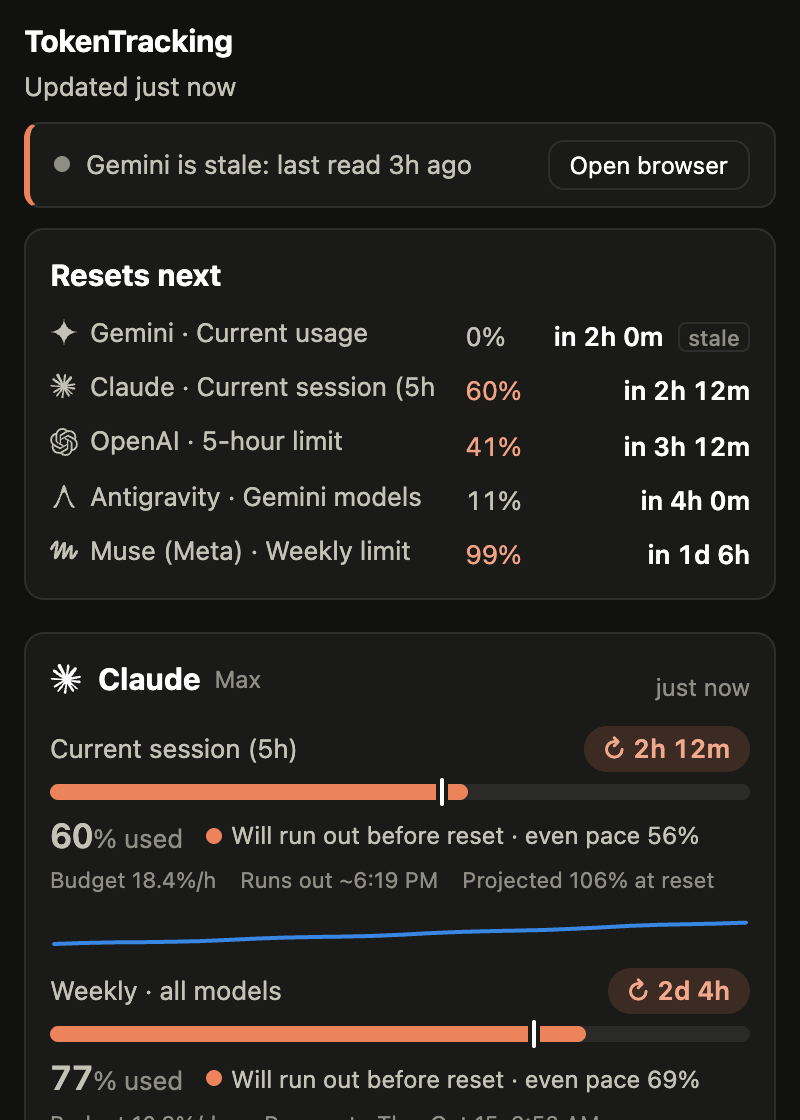
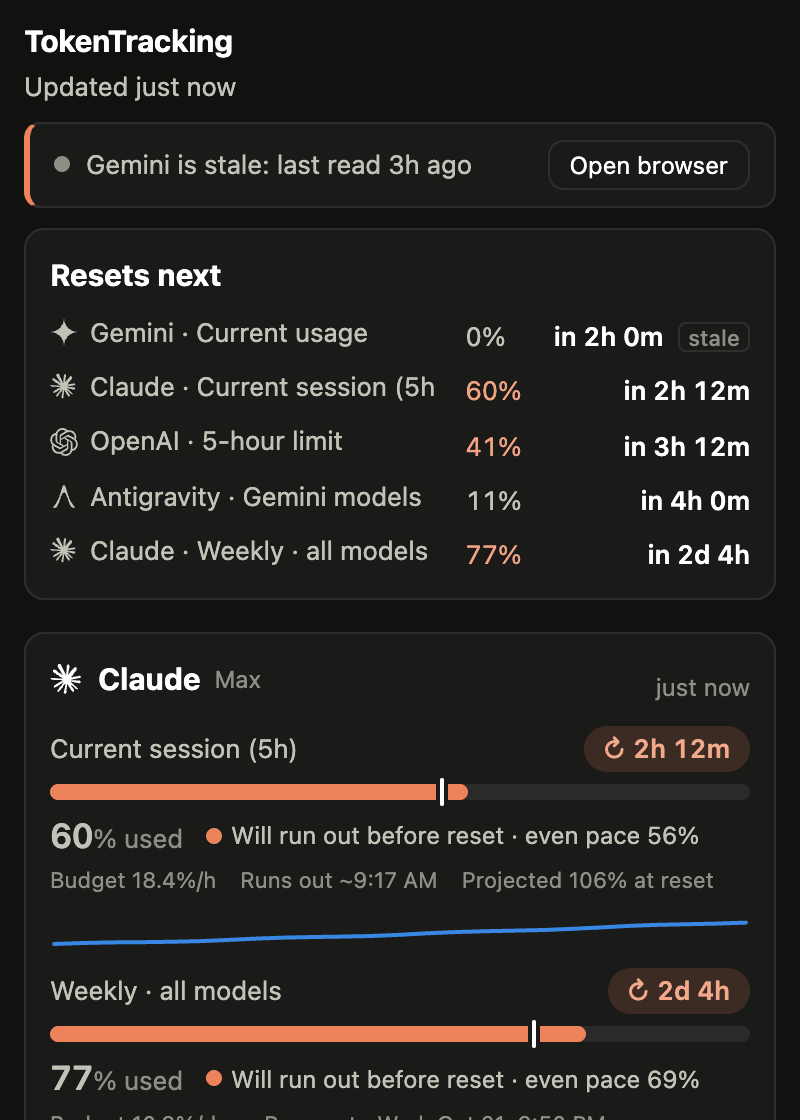
Release 0.6.0-preview.2 with refreshed website and demo screenshots

diff --git a/website/src/App.tsx b/website/src/App.tsx
@@ -54,30 +54,30 @@ export default function App() {
           <p className="hero-description">All your subscription limits, together in your menu bar. Know what’s left, how fast you’re using it, and when it resets.</p>
           <div className="hero-actions"><DownloadButtons /><SupportLink className="hero-support" label="Donate" /></div>
           <p className="download-caption">Free & open source <span>·</span> macOS {release.minimumMacOS}+ <span>·</span> Chrome required</p>
-          <a className="preview-link" href="#install">Preview release · read the installation notes <span aria-hidden="true">↗</span></a>
+          <a className="preview-link" href="#install">Preview {release.version} · installation notes <span aria-hidden="true">↗</span></a>
           <a className="hero-release-link" href={releaseURL} target="_blank" rel="noopener noreferrer">Release notes & checksums ↗</a>
         </div>
         <div className="hero-product" aria-label="TokenTracking product screenshots with demo data">
           <div className="desktop-orb orb-one" /><div className="desktop-orb orb-two" />
           <div className="menu-strip"><span className="menu-apple" aria-hidden="true">●</span><span className="menu-app">TokenTracking</span><div className="menu-crop"><img src="/images/menubar.png" alt="Menu bar with provider icons and percentage usage" /></div></div>
-          <div className="hero-panel"><img src="/images/panel-dark.png" width="800" height="1184" alt="Native Mac panel with upcoming resets and usage meters" /></div>
+          <div className="hero-panel"><img src="/images/panel-dark.png" width="800" height="1122" alt="Native Mac panel with upcoming resets and usage meters" /></div>
           <div className="floating-note"><span className="note-icon" aria-hidden="true">↻</span><div><strong>Less guessing. Better pacing.</strong><span>A glance is all it takes.</span></div></div>
-          <span className="image-caption">Current source build · demo data</span>
+          <span className="image-caption">Preview build · demo data</span>
         </div>
       </section>
 
       <section className="provider-section page-width" aria-label="Supported services">
         <p>Your subscriptions. One place.</p>
         <div className="providers">{providers.map(([id, name]) => <div className="provider" key={id}><img src={`/providers/${id}.svg`} width="24" height="24" alt="" /><span>{name}</span></div>)}</div>
-        <p className="provider-footnote">Grok Bot is tracked through Cursor. Antigravity is tracked while its desktop app is running.</p>
+        <p className="provider-footnote">Grok Bot is tracked through Cursor. Antigravity is tracked while its desktop app is running. <a href={`${release.repository}/blob/main/docs/PROVIDERS.md`} target="_blank" rel="noopener noreferrer">Provider status ↗</a></p>
       </section>
 
       <section id="features" className="features-section page-width">
         <div className="section-intro"><div><p className="eyebrow">A little more headroom</p><h2>Know where you stand.<br />Before you hit a wall.</h2></div><p>Five-hour sessions. Weekly limits. Monthly pools. See the whole picture without opening every usage page.</p></div>
         <div className="feature-grid">
-          <article className="feature-card"><span className="feature-number">01 / AT A GLANCE</span><h3>A home in your menu bar.</h3><p>An icon and a number for each service. Click once for every limit and its next reset.</p><div className="meter-demo" aria-label="Illustrative weekly limit: 72 percent used"><div><span>Weekly limit</span><strong>72<span>%</span></strong></div><div className="meter-track"><span /><i title="Even pace marker" /></div><p><span className="tiny-dot" /> Ahead of pace <span>↻ 2d 4h</span></p></div></article>
+          <article className="feature-card"><span className="feature-number">01 / AT A GLANCE</span><h3>A home in your menu bar.</h3><p>Your chosen services at a glance. Open the panel for usage, pacing, and upcoming resets.</p><div className="meter-demo" aria-label="Illustrative weekly limit: 72 percent used"><div><span>Weekly limit</span><strong>72<span>%</span></strong></div><div className="meter-track"><span /><i title="Even pace marker" /></div><p><span className="tiny-dot" /> Ahead of pace <span>↻ 2d 4h</span></p></div></article>
           <article className="feature-card"><span className="feature-number">02 / AHEAD OF THE RESET</span><h3>Make what’s left last.</h3><p>Even-pace markers, burn rate, and reset countdowns help you decide when to switch tools or slow down.</p><div className="reset-demo"><span>Resets next</span><div><img src="/providers/openai.svg" alt="" /><strong>ChatGPT</strong><span>in 3h 12m</span></div><div><img src="/providers/claude.svg" alt="" /><strong>Claude</strong><span>in 2d 4h</span></div><small>Illustrative values</small></div></article>
-          <article className="feature-card"><span className="feature-number">03 / QUIET BY DESIGN</span><h3>Fresh data. No fuss.</h3><p>Refreshes run invisibly in the background, every 15 minutes by default. Stale data and expired logins are clearly marked.</p><div className="quiet-demo"><div className="refresh-ring" aria-hidden="true">↻</div><span>Refresh. Read. Close.</span><small>No browser windows during refresh.</small></div></article>
+          <article className="feature-card"><span className="feature-number">03 / QUIET BY DESIGN</span><h3>Up to date, quietly.</h3><p>Refreshes run invisibly in the background, every 15 minutes by default. Stale data and expired logins are clearly marked.</p><div className="quiet-demo"><div className="refresh-ring" aria-hidden="true">↻</div><span>Refresh. Read. Close.</span><small>No browser windows during refresh.</small></div></article>
         </div>
       </section>
 
@@ -89,15 +89,15 @@ export default function App() {
       </section>
 
       <section className="settings-section page-width">
-        <div className="settings-copy"><p className="eyebrow">Your bar. Your priorities.</p><h2>Keep the numbers<br />that matter to you.</h2><p>Show the services you use. Drag them into your preferred order. Pick a specific limit, or let each service show its highest usage.</p><ul className="check-list"><li>Show or hide any service, including Gemini</li><li>Drag whole rows with live reordering</li><li>Choose session, weekly, or other available meters</li><li>Preferences save automatically on your Mac</li></ul><span className="source-badge">Settings shown from the current source build</span><p className="source-note">These controls will ship in the next packaged preview. The download above is {release.version}.</p></div>
-        <div className="settings-frame"><img src="/images/settings-dark.png" width="800" height="1184" alt="Settings with service checkboxes, reorder arrows and a Show selector for each meter" loading="lazy" /></div>
+        <div className="settings-copy"><p className="eyebrow">Your bar. Your priorities.</p><h2>Keep the numbers<br />that matter to you.</h2><p>Select and reorder your menu bar items. Keep the limits you care about in view, with your preferences saved on your Mac.</p><span className="source-badge">Included in {release.version}</span></div>
+        <div className="settings-frame"><img src="/images/settings-dark.png" width="800" height="1122" alt="Menu bar settings with service selection and usage limit choices" loading="lazy" /></div>
       </section>
 
       <section className="privacy-section page-width"><div className="privacy-mark" aria-hidden="true"><svg width="36" height="36" viewBox="0 0 24 24" fill="none" stroke="currentColor" strokeWidth="1.4"><rect x="5" y="10" width="14" height="11" rx="3" /><path d="M8 10V7a4 4 0 0 1 8 0v3m-4 4v3" /></svg></div><p className="eyebrow">Local-first, from the start</p><h2>Your usage stays yours.</h2><p>History is stored on your Mac. Logins stay inside a dedicated Chrome profile. TokenTracking reads your own provider pages, with no API keys and no telemetry.</p><div className="privacy-points"><span>Local history</span><span>No app account</span><span>No analytics</span><span>Open source</span></div><a href={`${release.repository}/blob/main/docs/SECURITY.md`} target="_blank" rel="noopener noreferrer">Read how it works <Arrow /></a></section>
 
       <section id="install" className="install-section page-width"><div className="section-intro"><div><p className="eyebrow">A few minutes to set up</p><h2>From download to a glance.</h2></div><p>macOS {release.minimumMacOS} or later, plus Google Chrome. Node and the local service are included in the app.</p></div><ol className="install-steps"><li><span>1</span><h3>Drop it into Applications.</h3><p>Download the DMG for your Mac, open it, and drag TokenTracking to Applications.</p></li><li><span>2</span><h3>Connect your subscriptions.</h3><p>Choose Open browser for each service, sign in, then quit that dedicated Chrome window with ⌘Q.</p></li><li><span>3</span><h3>Make room in your menu bar.</h3><p>If needed, enable TokenTracking in System Settings → Menu Bar. Your limits refresh automatically.</p></li></ol><aside className="preview-notice"><span aria-hidden="true">ⓘ</span><div><strong>A note about the preview</strong><p>The current download is ad-hoc signed and isn’t notarized by Apple. If macOS blocks the first launch, attempt to open the app, then use System Settings → Privacy & Security → Open Anyway if you trust this build. Keep Gatekeeper enabled.</p><a href={`${release.repository}/blob/main/docs/RELEASING.md`} target="_blank" rel="noopener noreferrer">Release and installation details ↗</a></div></aside></section>
 
-      <section className="faq-section page-width"><h2>A few things to know.</h2><div className="faqs"><details><summary>Does this need API keys?</summary><p>No. Browser providers are read from their own pages using a separate Chrome profile you sign into once. Antigravity is read from its local language server while the app is running.</p></details><details><summary>Does it track API spending or token counts?</summary><p>It tracks subscription usage limits and pacing. API billing, cost-per-token estimates, and subscription value comparisons are not included.</p></details><details><summary>What if a provider changes its usage page?</summary><p>These readers use undocumented pages and endpoints. They can change, and a meter may temporarily stop updating. The app shows stale readings and refresh errors instead of hiding them. OpenAI’s duplicate “Usage remaining” row is still being checked.</p></details><details><summary>What happens when I update or uninstall?</summary><p>Quit the app before replacing it in Applications. Updates keep your history and logins in ~/.tokentracking. To uninstall, quit and remove the app; delete that folder separately if you also want to erase its local data.</p></details></div></section>
+      <section className="faq-section page-width"><h2>A few things to know.</h2><div className="faqs"><details><summary>Does this need API keys?</summary><p>No. Browser providers are read from their own pages using a separate Chrome profile you sign into once. Antigravity is read from its local language server while the app is running.</p></details><details><summary>Does it track API spending or token counts?</summary><p>It tracks subscription usage limits and pacing. API billing, cost-per-token estimates, and subscription value comparisons are not included.</p></details><details><summary>What if a provider changes its usage page?</summary><p>These readers use undocumented pages and endpoints. They can change, and a meter may temporarily stop updating. The app shows stale readings and refresh errors instead of hiding them. See the provider documentation for the latest verification status.</p></details><details><summary>What happens when I update or uninstall?</summary><p>Quit the app before replacing it in Applications. Updates keep your history and logins in ~/.tokentracking. To uninstall, quit and remove the app; delete that folder separately if you also want to erase its local data.</p></details></div></section>
 
       <section id="support" className="support-section page-width" aria-labelledby="support-title">
         <div className="support-section-copy"><p className="eyebrow">Free, open source, independently built</p><h2 id="support-title">Help keep it going.</h2><p>If TokenTracking gives you a little more clarity, consider leaving a tip to support the project.</p></div>

diff --git a/lib/scrape-dom.js b/lib/scrape-dom.js
@@ -9,6 +9,7 @@ const PCT_ALL = /(\d{1,3}(?:\.\d+)?)\s*%/g;
 const PCT_LEAF = /^\s*\d{1,3}(?:\.\d+)?\s*%(\s*(used|left|remaining))?\s*$/i;
 const RESET_RE = /reset|renew|refresh|available again/i;
 const ICON_RE = /^[a-z_]+$/; // Material icon ligatures like "info", "chevron_right"
+const GENERIC_LABEL_RE = /^(?:usage(?:\s+(?:remaining|limit))?|progress(?:\s*bar)?|meter)$/i;
 
 const visible = (el) => { const r = el.getBoundingClientRect(); return r.width > 0 && r.height > 0; };
 const lines = (el) => (el.innerText || '').split('\n').map((s) => s.trim()).filter(Boolean);
@@ -59,13 +60,18 @@ function scrape() {
     return /left|remaining/i.test(pctLine) ? 100 - v : v;
   };
 
-  // 1. ARIA progress bars that carry a value (labelled bars, e.g. Muse settings).
+  // 1. ARIA progress bars that carry a value (labelled bars, e.g. Muse settings, ChatGPT limits).
   for (const pb of document.querySelectorAll('[role="progressbar"][aria-valuenow], progress')) {
     if (!visible(pb)) continue;
     const ls = lines(boxAround(pb));
     const idx = ls.findIndex((l) => PCT_RE.test(l));
-    const label = pb.getAttribute('aria-label') || labelFrom(ls, idx >= 0 ? idx : ls.length);
-    add(label, fromText(ls[idx], barPercent(pb)), ls.find((l) => RESET_RE.test(l)), ls[idx]);
+    const aria = (pb.getAttribute('aria-label') || '').trim();
+    const ariaValid = aria && !GENERIC_LABEL_RE.test(aria) && isLabel(aria);
+    const fromDom = labelFrom(ls, idx >= 0 ? idx : ls.length);
+    const label = fromDom !== 'Usage' ? fromDom : (ariaValid ? aria : fromDom);
+    let pct = fromText(ls[idx], barPercent(pb));
+    if (pct != null && idx < 0 && /remaining|left/i.test(aria)) pct = 100 - pct;
+    add(label, pct, ls.find((l) => RESET_RE.test(l)), ls[idx]);
   }
 
   // 2. Text-only meters: a leaf element reading "NN% used" (e.g. Gemini /usage).
@@ -74,7 +80,11 @@ function scrape() {
     if (leaf.closest('nav,[role=navigation]')) continue;
     const ls = lines(boxAround(leaf));
     const idx = ls.findIndex((l) => PCT_RE.test(l));
-    add(labelFrom(ls, idx), fromText(ls[idx]), ls.find((l) => RESET_RE.test(l)), ls[idx]);
+    if (idx < 0) continue;
+    const resetLine = ls.find((l) => RESET_RE.test(l));
+    // A bare percentage without a reset time or "used/left/remaining" is not a quota meter (e.g. breakdown charts).
+    if (!/used|left|remaining/i.test(ls[idx]) && !resetLine) continue;
+    add(labelFrom(ls, idx), fromText(ls[idx]), resetLine, ls[idx]);
   }
   return meters.slice(0, 20);
 }

diff --git a/test/db.test.js b/test/db.test.js
@@ -20,17 +20,25 @@ test('schema migrations fold old Antigravity meter ids into the fixed groups', (
     add.run('pool-gemini', 'Gemini models', 0, '2026-10-16T17:33:02Z', '2026-10-15T17:33:02Z', '2026-10-15T17:33:02Z');
     add.run('pool-gemini', 'Gemini models', 80, '2026-10-23T12:35:35Z', '2026-10-16T14:00:00Z', '2026-10-16T14:00:00Z'); // v3-era misattributed Argon row
     add.run('pool-gpt-oss', 'GPT-OSS models', 0, null, '2026-10-15T17:48:27Z', '2026-10-15T17:48:27Z'); // a v2-era row
+    const addOpenAI = raw.prepare(`INSERT INTO snapshots (provider, meter_id, label, window, used_percent, resets_at, captured_at, received_at)
+      VALUES ('openai', ?, ?, ?, ?, ?, ?, ?)`);
+    addOpenAI.run('weekly', 'Weekly', 'weekly', 100, null, '2026-10-17T10:00:00Z', '2026-10-17T10:00:00Z');
+    addOpenAI.run('usage-remaining', 'Usage remaining', 'session', 0, '2026-10-17T15:00:00Z', '2026-10-17T10:00:00Z', '2026-10-17T10:00:00Z');
+    addOpenAI.run('weekly-limit', 'Weekly limit', 'weekly', 83, '2026-10-22T08:00:00Z', '2026-10-17T10:00:00Z', '2026-10-17T10:00:00Z');
+    addOpenAI.run('5-hour-limit', '5-hour limit', 'session', 0, '2026-10-17T15:00:00Z', '2026-10-17T10:00:00Z', '2026-10-17T10:00:00Z');
     raw.close();
 
     const db = openDb(path);
-    assert.deepEqual(db.latest('2026-01-01').map((r) => [r.meter_id, r.label, r.used_percent]), [
-      ['pool-claude-gpt', 'Claude and GPT models', 0],
-      ['pool-gemini', 'Gemini models', 0],
-      ['pool-gemini-argon', 'Gemini 4 Argon', 80],
+    assert.deepEqual(db.latest('2026-01-01').map((r) => [r.provider, r.meter_id, r.label, r.used_percent]), [
+      ['antigravity', 'pool-claude-gpt', 'Claude and GPT models', 0],
+      ['antigravity', 'pool-gemini', 'Gemini models', 0],
+      ['antigravity', 'pool-gemini-argon', 'Gemini 4 Argon', 80],
+      ['openai', '5-hour-limit', '5-hour limit', 0],
+      ['openai', 'weekly-limit', 'Weekly limit', 83],
     ]);
     assert.equal(db.history('antigravity', 'pool-claude-gpt', '2026-01-01').length, 2);
     assert.equal(db.history('antigravity', 'pool-gemini-argon', '2026-01-01').length, 1);
-    assert.equal(db.raw.prepare(`SELECT value FROM meta WHERE key = 'schema_version'`).get().value, '4');
+    assert.equal(db.raw.prepare(`SELECT value FROM meta WHERE key = 'schema_version'`).get().value, '5');
     db.close();
   } finally { rmSync(dir, { recursive: true, force: true }); }
 });

diff --git a/test/headless.test.js b/test/headless.test.js
@@ -25,6 +25,32 @@ const MUSE = `<button data-testid="hatch-dock-more" aria-label="Settings" onclic
   <div id="dlg" hidden role="dialog"><h3>Usage</h3><div><div>Free plan</div><div>Weekly limit resets on Oct 14</div><div>95% used</div>
   <div role="progressbar" aria-label="Free plan" aria-valuenow="95" aria-valuemax="100" style="height:4px;width:200px"></div><a>Upgrade</a></div></div>`;
 
+// Structure seen on chatgpt.com/settings/usage?tab=overview (2026-10-17):
+// Plan limits with progress bars (aria-label="Usage remaining") and % left, followed by Recent plan usage
+// breakdown chart tab ("Weekly") and 100% total that must not be recognized as a quota meter.
+const OPENAI = `<main><h1>Usage</h1>
+  <section>
+    <h2>Plan limits</h2>
+    <div>
+      <div>5-hour limit</div>
+      <div>Resets in 5h 0m</div>
+      <span>100% left</span>
+      <progress max="100" value="100" aria-label="Usage remaining"></progress>
+    </div>
+    <div>
+      <div>Weekly limit</div>
+      <div>Resets in 4d 22h</div>
+      <span>17% left</span>
+      <progress max="100" value="17" aria-label="Usage remaining"></progress>
+    </div>
+  </section>
+  <section>
+    <h2>Recent plan usage</h2>
+    <div><button role="tab">5-hour</button><button role="tab">Weekly</button></div>
+    <span class="heading-lg">100%</span>
+    <div>Balance history isn’t available yet</div>
+  </section></main>`;
+
 let conn, profile;
 before(async () => {
   if (skip) return;
@@ -94,4 +120,19 @@ test('Muse reader waits for a visible warming-up state before opening Settings a
   } finally {
     await page.close();
   }
+});
+
+test('scraper reads OpenAI-style progress bars with generic aria-label, ignores activity breakdown chart', { skip }, async () => {
+  const page = await load(OPENAI);
+  const raw = await page.evaluate('TokenTrackingDom.scrape()');
+  await page.close();
+  assert.deepEqual(raw.map((m) => [m.label, m.percent, m.resetText]), [
+    ['5-hour limit', 0, 'Resets in 5h 0m'],
+    ['Weekly limit', 83, 'Resets in 4d 22h'],
+  ]);
+  const meters = normalizeDomMeters(raw);
+  assert.deepEqual(meters.map((m) => [m.id, m.window, m.usedPercent]), [
+    ['5-hour-limit', 'session', 0],
+    ['weekly-limit', 'weekly', 83],
+  ]);
 });

diff --git a/server/src/db.js b/server/src/db.js
@@ -24,7 +24,7 @@ CREATE TABLE IF NOT EXISTS meta (key TEXT PRIMARY KEY, value TEXT);
 INSERT OR IGNORE INTO meta (key, value) VALUES ('schema_version', '1');
 `;
 
-const SCHEMA_VERSION = 4;
+const SCHEMA_VERSION = 5;
 
 function migrate(db) {
   const version = Number(db.prepare(`SELECT value FROM meta WHERE key = 'schema_version'`).get()?.value || 1);
@@ -51,6 +51,11 @@ function migrate(db) {
       // Argon snapshots to pool-gemini-argon.
       db.exec(`UPDATE snapshots SET meter_id = 'pool-gemini-argon', label = 'Gemini 4 Argon', window = 'weekly'
         WHERE provider = 'antigravity' AND meter_id = 'pool-gemini' AND resets_at LIKE '2026-10-23T12:%'`);
+    }
+    if (version < 5) {
+      // v5: Delete spurious OpenAI meters ("weekly" scraped from Recent plan usage breakdown tab,
+      // and "usage-remaining" from progress bar aria-label).
+      db.exec(`DELETE FROM snapshots WHERE provider = 'openai' AND meter_id IN ('weekly', 'usage-remaining')`);
     }
     db.prepare(`UPDATE meta SET value = ? WHERE key = 'schema_version'`).run(String(SCHEMA_VERSION));
     db.exec('COMMIT');

diff --git a/scripts/seed-demo.js b/scripts/seed-demo.js
@@ -20,6 +20,7 @@ const meters = [
   { provider: 'cursor', id: 'total', label: 'Included total', window: 'monthly', resetIn: 9 * 24 * H, end: 72, plan: 'pro' },
   { provider: 'cursor', id: 'api', label: 'Other models', window: 'monthly', resetIn: 9 * 24 * H, end: 48 },
   { provider: 'cursor', id: 'auto', label: 'Cursor models', window: 'monthly', resetIn: 9 * 24 * H, end: 64 },
+  { provider: 'muse', id: 'weekly', label: 'Weekly limit', window: 'weekly', resetIn: 74 * H, end: 87, plan: 'Free plan' },
   { provider: 'gemini', id: 'current-usage', label: 'Current usage', window: 'session', resetIn: 2 * H, end: 1, staleBy: 3 * H }, // shows the stale notice
   { provider: 'cursor', id: 'grok-bot', label: 'Grok Bot', window: 'weekly', resetIn: 100 * H, end: 18 },
   { provider: 'antigravity', id: 'pool-claude-gpt', label: 'Claude and GPT models', window: 'weekly', resetIn: 118 * H, end: 51, plan: 'Pro' },

diff --git a/scripts/screenshots.js b/scripts/screenshots.js
@@ -58,10 +58,12 @@ db.close();
 try {
   const src = readFileSync('menubar/TokenTrackingMenu.swift', 'utf8');
   const glyphs = src.slice(src.indexOf('/// One service in the menu bar'), src.indexOf('// MARK: - Status polling'));
+  const dateParser = src.slice(src.indexOf('func parseDate('), src.indexOf('/// "2d 4h"'));
   const swiftFile = join(home, 'glyphs.swift');
   writeFileSync(swiftFile, `import AppKit
 ${glyphs}
-let slots = [("claude", 92.0), ("cursor", 72), ("antigravity", 51), ("grok-bot", 18), ("openai", 42), ("muse", 100)]
+${dateParser}
+let slots = [("claude", 92.0), ("cursor", 72), ("antigravity", 51), ("grok-bot", 18), ("openai", 42), ("muse", 87)]
   .map { MenuSlot(symbol: $0.0, text: MenuBarGlyphs.digits($0.1)) }
 let glyph = MenuBarGlyphs.image(for: slots)
 let s: CGFloat = 2, pad: CGFloat = 14, band: CGFloat = 26

diff --git a/website/src/release.ts b/website/src/release.ts
@@ -1,7 +1,7 @@
 // Keep preview signing status and URLs in sync with GitHub Releases and docs/RELEASING.md.
 export const release = {
-  version: '0.6.0-preview.1',
-  tag: 'v0.6.0-preview.1',
+  version: '0.6.0-preview.2',
+  tag: 'v0.6.0-preview.2',
   preview: true,
   repository: 'https://github.com/mduppes/TokenTracking',
   minimumMacOS: '13',

diff --git a/docs/PROVIDERS.md b/docs/PROVIDERS.md
@@ -2,9 +2,7 @@
 
 All providers are read by the headless refresher (`server/src/headless/refresh.js`, `TASKS`), from inside each provider's own site, using the dedicated logged-in Chrome profile.
 
-Mac packaging check (2026-10-13): the release bundles the same provider readers; no live provider reads were rerun for distribution. Verification dates below remain the dates of actual provider checks.
-
-Website/screenshots (2026-10-13): refreshed assets use throwaway demo data only; no provider reads were rerun for the landing page. Native screenshots show the current source, while download links point to the older published preview.
+Release and screenshot check (2026-10-20): preview.2 bundles the current readers and schema v5. Refreshed assets use throwaway demo data only; no live provider reads were rerun for release preparation. Verification dates below remain the dates of actual provider checks.
 
 Menu bar customization (2026-10-13): all seven service slots, including Gemini and Cursor’s separate Grok Bot limit, are selectable. Visibility affects only the menu bar; provider collection and verification dates below are unchanged.
 
@@ -16,7 +14,8 @@ Status legend: ✅ verified end-to-end with headless · ⛔ not implemented.
 | Cursor | `https://cursor.com/dashboard/spending` | In-page `GET /api/usage-summary` → `parseCursorUsage` | Monthly: included total, Cursor models, other models, on-demand $ if enabled | ✅ 2026-10-10 |
 | Grok Bot (Cursor) | same page | In-page `POST /api/dashboard/get-sand-usage-status` `{}` → `parseCursorGrokBot` | Weekly | ✅ 2026-10-10 |
 | Gemini (app) | `https://gemini.google.com/usage` | DOM: `scrape-dom.js` ("NN% used" text) | "Current usage" (short rolling window) + "Weekly limit" | ✅ 2026-10-10 |
-| OpenAI (ChatGPT) | `https://chatgpt.com/settings/usage?tab=overview` | DOM: `scrape-dom.js` on the rendered usage overview | 5-hour, weekly, plus a generic "Usage remaining" row under review | ⏳ signed-in capture observed 2026-10-13; meter layout verification pending |
+| Muse (Meta) | `https://muse.ai/` → Settings → General | DOM progress bar, with bounded warmup wait and current limit-notice fallback | Weekly | ✅ 2026-10-10; warmup/reset regressions fixture-tested 2026-10-14; live warmup monitoring pending |
+| OpenAI (ChatGPT) | `https://chatgpt.com/settings/usage?tab=overview` | DOM: `scrape-dom.js` on the rendered usage overview | 5-hour limit ("5-hour-limit"), weekly limit ("weekly-limit") | ✅ verified (2026-10-17) |
 | Antigravity | none on the web; desktop app must be running | Local language server `GetUserStatus` (127.0.0.1, CSRF token from its process args; ADR-011) → `parseAntigravityStatus` | The three groups shown in Antigravity's Settings: "Claude and GPT models", "Gemini models", and "Gemini 4 Argon" (fixed by model name) | ✅ 2026-10-16 |
 
 **Logged-out detection** (`loggedOut(href, text)`), as observed 2026-10-10:
@@ -64,12 +63,15 @@ Status legend: ✅ verified end-to-end with headless · ⛔ not implemented.
 ### OpenAI (ChatGPT)
 - The user-provided usage overview is `https://chatgpt.com/settings/usage?tab=overview`.
 - The task reads the rendered page through the shared DOM scraper in the dedicated Chrome profile. It does not call private endpoints or inspect browser credentials.
-- The page's current meter labels, reset wording, and signed-in behavior still need end-to-end verification with the user's ChatGPT subscription. Meters are only recorded when the page exposes a percentage or valued progress bar recognized by `scrape-dom.js`.
+- The overview displays quota meters under **Plan limits**: "5-hour limit" and "Weekly limit", each with a `<progress>` bar and percentage remaining text ("100% left", "17% left").
 - Browser warnings offer **Open browser** even when the task reports an error, so the user can inspect the dedicated profile's session. Quit that window with Cmd+Q to trigger another refresh.
 - The dashboard and native panel show an empty OpenAI card even before its first reading. If the login browser remains open, refresh reports that it skipped browser usage and asks the user to quit that Chrome window with Cmd+Q.
-- **Loading/login check (2026-10-13):** waits up to 60 seconds for usage meters rather than rejecting the initial guest shell after 2.5 seconds. Login is reported only if the final rendered state is an auth/login page or shows a standalone Log in / Sign in action without usage. A loading timeout or unrelated error page reports an error. OpenAI-only signed-in refresh succeeded with this reader (three meters); duplicate-meter mapping remains pending.
+- **Loading/login check (2026-10-13):** waits up to 60 seconds for usage meters rather than rejecting the initial guest shell after 2.5 seconds. Login is reported only if the final rendered state is an auth/login page or shows a standalone Log in / Sign in action without usage. A loading timeout or unrelated error page reports an error.
 - **Verified guest state (2026-10-13):** the dedicated profile redirects to `/` on `chatgpt.com`, displays a Log in button, and exposes no progress bars or meters.
-- **Signed-in capture (2026-10-13):** stored 5-hour and weekly limits with reset times, plus a generic "Usage remaining" row. That generic row may duplicate the 5-hour meter; verify the rendered layout and add a redacted fixture before calling the meter mapping fully verified.
+- **Signed-in capture and verification (2026-10-17):**
+  - Both progress bars on `chatgpt.com` carry `aria-label="Usage remaining"`. `scrape-dom.js` treats generic labels like "Usage remaining" as non-identifying and reads the card's visible heading ("5-hour limit", "Weekly limit") instead of generating duplicate "Usage remaining" meters.
+  - The "Recent plan usage" breakdown section includes tab buttons ("5-hour", "Weekly") and a 100% activity total. `scrape-dom.js` ignores text percentages that lack both a reset indicator and "used/left/remaining" keywords, preventing spurious "Weekly" 100% MAX readings.
+  - Database migration v5 deletes legacy `weekly` and `usage-remaining` rows for OpenAI. Redacted fixture test in `test/headless.test.js`.
 
 ### Muse (Meta)
 - Usage sits in **Settings → General → Usage**, a dialog with no URL of its own:

diff --git a/README.md b/README.md
@@ -4,7 +4,7 @@
 
 One place to see how close you are to the usage limits of your AI subscriptions, and how to pace yourself until they reset. It lives in your macOS menu bar.
 
-Supported: **Claude**, **Cursor** (including **Grok Bot**'s weekly limit), **OpenAI (ChatGPT)**, **Gemini (app)**, **Muse (Meta)**, and **Antigravity** (per quota pool, while the app is running). OpenAI signed-in reads have been verified; a possible duplicate usage row is still under review. See [docs/PROVIDERS.md](docs/PROVIDERS.md).
+Supported: **Claude**, **Cursor** (including **Grok Bot**'s weekly limit), **OpenAI (ChatGPT)**, **Gemini (app)**, **Muse (Meta)**, and **Antigravity** (per quota pool, while the app is running). OpenAI signed-in reads and its session/weekly meter layout have been verified. See [docs/PROVIDERS.md](docs/PROVIDERS.md).
 
 It's **local-first**:
 - **Refresh:** every 15 minutes a headless Chrome (no window, no Dock icon) uses its own logged-in profile to read each service's usage, then quits. Chrome exits after each run.
@@ -24,7 +24,7 @@ No API keys, no TokenTracking account, no telemetry, no browser extension. Your 
   <img src="docs/images/dashboard-light.png" width="520" alt="Dashboard: resets-next list and per-service cards with usage bars, even-pace markers, countdowns and sparklines">
 </p>
 
-<sub>Screenshots show the current source build and use demo data (`npm run screenshots`; native captures use the generated demo-only preview app). Published preview downloads may lag the source; Settings customization will ship in the next packaged preview.</sub>
+<sub>Screenshots use demo data and show the preview app, including menu bar customization.</sub>
 
 ## Features
 
@@ -40,14 +40,14 @@ No API keys, no TokenTracking account, no telemetry, no browser extension. Your 
 - **Menu bar app:**
   - **Usage slots:** a brand icon and percentage per selected service; at the limit it shows a reset countdown (e.g. `↻2h`, `↻45m`) or `MAX`, and `??` means no reading or an unavailable selected meter.
   - **Native panel:** click for notices, upcoming resets and every meter, with Refresh now / Open dashboard / Quit.
-  - **Settings:** the top-right gear becomes an X to return. Show/hide services (including Gemini), drag whole rows with live reordering, use accessible arrow buttons, and choose a specific meter or **Highest usage**. Preferences save locally; Restore defaults resets them. Hiding all services leaves a clickable app icon.
+  - **Settings:** select and reorder your menu bar items, and choose which usage limit each item shows. Preferences are saved on your Mac.
   - **Lifecycle:** the app starts and stops the local service it owns.
 - **Also:** the full dashboard at http://127.0.0.1:7878 (card and table views, light and dark) and `npm run status` in the terminal.
 - **Stale, login and error notices with an Open browser button.** Services whose data is stale (missed about 2 refreshes) or whose login expired are listed at the top with the reason. **Open browser** opens the TokenTracking browser on that service; quit it (⌘Q) when you're done and that service refreshes automatically.
 
 ## Download for Mac
 
-[**Download for Mac — Apple Silicon**](https://github.com/mduppes/TokenTracking/releases/download/v0.6.0-preview.1/TokenTracking-0.6.0-preview.1-arm64.dmg) · [**Intel Mac**](https://github.com/mduppes/TokenTracking/releases/download/v0.6.0-preview.1/TokenTracking-0.6.0-preview.1-x64.dmg)
+[**Download for Mac — Apple Silicon**](https://github.com/mduppes/TokenTracking/releases/download/v0.6.0-preview.2/TokenTracking-0.6.0-preview.2-arm64.dmg) · [**Intel Mac**](https://github.com/mduppes/TokenTracking/releases/download/v0.6.0-preview.2/TokenTracking-0.6.0-preview.2-x64.dmg)
 
 Requires **macOS 13+** and **Google Chrome**. Node and the local service are included; no terminal, Git or Xcode tools needed.
 
@@ -59,7 +59,7 @@ Requires **macOS 13+** and **Google Chrome**. Node and the local service are inc
 
 To update, quit TokenTracking, replace the app in Applications, and reopen it. Your logins and history stay in `~/.tokentracking`. To uninstall, quit and remove the app; remove `~/.tokentracking` separately if you also want to delete its history and dedicated browser profile.
 
-The current GitHub download is **0.6.0-preview.1**. Menu bar Settings shown in these screenshots belong to the current source and will be included in the next packaged release.
+The current GitHub download is **0.6.0-preview.2**, with menu bar customization, updated provider readers, and fixes for OpenAI meters and Muse refreshes. See the [release notes](docs/releases/0.6.0-preview.2.md).
 
 ## Build from source
 
@@ -161,10 +161,11 @@ Environment variables:
 | Doc | Contents |
 |---|---|
 | [docs/ARCHITECTURE.md](docs/ARCHITECTURE.md) | Components, data flow, data model, pacing math |
+| [docs/RELEASING.md](docs/RELEASING.md) | Build, verify and publish Mac downloads |
 | [docs/PROVIDERS.md](docs/PROVIDERS.md) | Per-service: where usage lives, how it's read, what's verified |
 | [docs/SECURITY.md](docs/SECURITY.md) | Threat model, what data is touched, privacy guarantees |
 | [docs/DECISIONS.md](docs/DECISIONS.md) | Architecture decision records (why things are the way they are) |
-| [docs/ROADMAP.md](docs/ROADMAP.md) | What's next: cost-per-token, Antigravity, … |
+| [docs/ROADMAP.md](docs/ROADMAP.md) | What’s next and remaining verification |
 | [AGENTS.md](AGENTS.md) | Orientation for AI coding agents / new contributors |
 | [CHANGELOG.md](CHANGELOG.md) | Release history |
 

diff --git a/docs/ROADMAP.md b/docs/ROADMAP.md
@@ -4,9 +4,9 @@ Ordered by priority. Move items to CHANGELOG.md when they ship.
 
 ## Next
 - [ ] **Muse live warmup verification:** the user’s 2026-10-14 screenshot confirms “is warming up”, which the old connection check missed. The reader now waits up to three minutes for warmup and Settings usage, with simulated-time and real-Chrome fixture coverage. Monitor whether live warmups need a longer allowance; expired notices remain rejected.
-- [ ] **Website rollout:** choose hosting/domain and deploy `website/dist`. Publish the next Mac preview with Settings customization before removing the site’s source-build caveat; update `website/src/release.ts`, README links and screenshots together.
+- [ ] **Website rollout:** choose hosting/domain and deploy the refreshed `website/dist`. Preview.2 includes Settings customization; site download links, README and demo screenshots are synchronized.
 - [ ] **Mac distribution:** sign and notarize downloads with Developer ID before promoting the unsigned preview to a stable release. Verify first-launch Gatekeeper and menu bar permissions on fresh Apple Silicon and Intel Macs; Intel package is cross-compiled on Apple Silicon. See `docs/RELEASING.md`.
-- [ ] **OpenAI:** finish meter-layout verification and add a redacted DOM fixture. A signed-in capture on 2026-10-13 stored 5-hour and weekly limits plus a generic "Usage remaining" meter; check whether the generic row duplicates the 5-hour pool and normalize it if so. Browser errors offer Open browser to inspect the session.
+- [x] **OpenAI:** verified meter layout against live signed-in session (2026-10-17). `scrape-dom.js` now reads visible headings when progress bar accessibility labels are generic ("Usage remaining") and ignores non-quota percentage headings in activity breakdown charts ("Weekly" 100%), with v5 schema migration and redacted fixture test.
 - [x] **Icons:** authentic brand vector icons for all providers across the macOS menu bar and dashboard (Claude, Cursor, Antigravity, Grok Bot, OpenAI, Muse, Gemini).
 - [ ] **Watch headless for a few days** for bot blocks or session expiry; tune the interval if needed.
 - [ ] **Claude multi-org picker** (config or dashboard setting).
@@ -24,6 +24,7 @@ Candidates, to be checked for a usage page or local source first. Same rules as 
 - [ ] **Midjourney** (fast GPU hours), **ElevenLabs** (characters per month): non-LLM, but the same "pace a monthly quota" problem.
 
 ## Done
+- [x] Build and publish 0.6.0-preview.2 for Apple Silicon and Intel; refresh demo screenshots, website copy and GitHub documentation together (2026-10-20). Relocated-service checks cover arm64 and x64 under Rosetta; physical Intel/fresh-Mac verification remains pending.
 - [x] Clear local release staging apps, Node build caches and the screenshot preview; retain the development app and preview DMGs, and document safe build cleanup (2026-10-15; about 535 MB reclaimed).
 - [x] Muse warming-up detection and three-minute meter loading allowance, including missing usage with no visible loading label (2026-10-14; fixture verified).
 - [x] Reject expired Muse limit notices after weekly reset; regression tests cover next-year rollover, unknown dates, seven-day bounds and New Year (2026-10-14).

diff --git a/CHANGELOG.md b/CHANGELOG.md
@@ -3,6 +3,18 @@
 All notable changes to this project are recorded here. Format: [Keep a Changelog](https://keepachangelog.com/en/1.1.0/), versions: [SemVer](https://semver.org/).
 
 ## [Unreleased]
+
+No changes yet.
+
+## [0.6.0-preview.2] - 2026-10-20
+
+Packaged preview with menu bar customization, reset countdowns, provider fixes and refreshed documentation. The notes below consolidate work since 0.5.0, including the initial preview.1 packaging.
+
+### Release preparation
+- Published Apple Silicon and Intel preview DMGs with SHA-256 checksums; refreshed demo screenshots, README, provider status and release instructions together.
+- Simplified website and README feature copy around selecting menu items, usage pacing and reset times. Download links now point to preview.2, which includes Settings.
+- Fixed the screenshot menu bar renderer’s missing date helper and restored Muse usage to the demo dataset.
+
 ### Maintenance
 - Removed local release staging apps, cached Node runtimes/downloads and the generated screenshot preview to reclaim about 535 MB; kept the development app and both preview DMGs. Documented which generated folders can be cleared after release verification.
 
@@ -21,6 +33,7 @@ All notable changes to this project are recorded here. Format: [Keep a Changelog
 - **OpenAI (ChatGPT)** usage page support: the dedicated Chrome profile opens the usage overview and reads its rendered percentage meters with the shared DOM scraper. Added OpenAI to the dashboard, login flow and menu bar. Signed-in meter details still need end-to-end verification.
 - Menu bar shows OpenAI as `??` until its first reading is stored, so the new slot is visible before the first successful refresh.
 ### Fixed
+- Fixed OpenAI phantom "Weekly" 100% (MAX) meter and duplicate "Usage remaining" meter on `chatgpt.com/settings/usage`. The DOM scraper (`lib/scrape-dom.js`) now skips generic progress bar accessibility labels (`aria-label="Usage remaining"`), reading visible card titles ("5-hour limit", "Weekly limit") directly, and ignores text percentages that lack both a reset indicator and "used/left/remaining" keywords (such as the 100% total in the "Recent plan usage" breakdown section). Database migration v5 removes legacy `weekly` and `usage-remaining` rows.
 - Fixed menu bar fallback window popping up and stealing focus when entering full-screen mode in other apps. The visibility check now ignores intentional menu bar hiding during full-screen spaces (`CGWindowList`) and auto-hide states (`NSMenu.menuBarVisible()`), and never interrupts users once the menu bar icon has already been established.
 - Muse refresh recognizes “is warming up” as well as “Connecting…” and waits up to three minutes for the Settings usage meter, including when loading has no visible status label. A timeout keeps the last confirmed reading for the next refresh.
 - Muse no longer overwrites post-reset usage with old chat limit notices: fallback readings require a known reset within the next seven days. Missing Settings usage is reported separately from a connection timeout.
